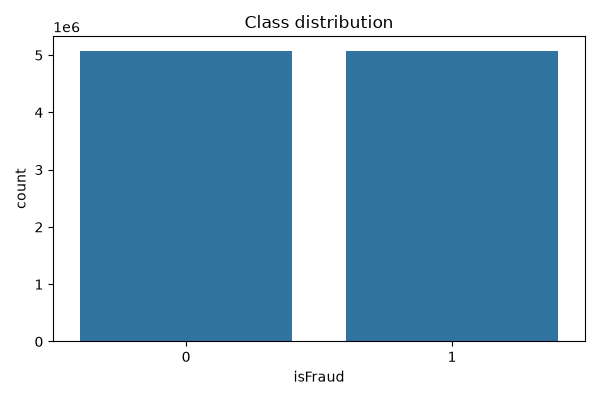
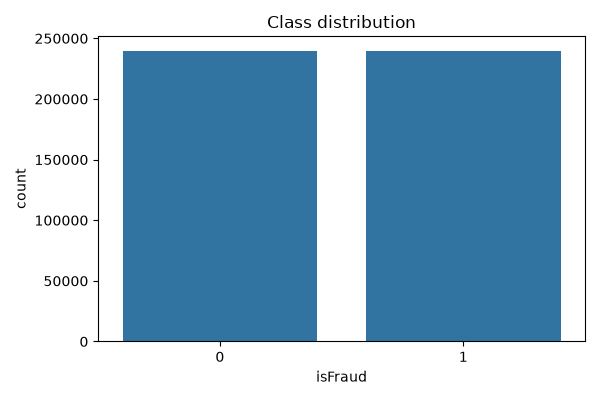
fix run

diff --git a/tools/list_artifacts.py b/tools/list_artifacts.py
@@ -1,0 +1,23 @@
+from pathlib import Path
+
+for label, path in [
+    ('Week 1 outputs', 'Week_1_EDA_Feature_Engineering/outputs'),
+    ('Week 1 charts', 'Week_1_EDA_Feature_Engineering/charts'),
+    ('Week 2 models', 'Week_2_Fraud_Detection/models'),
+    ('Week 2 charts', 'Week_2_Fraud_Detection/charts'),
+    ('Week 2 outputs', 'Week_2_Fraud_Detection/outputs'),
+    ('Week 3 models', 'Week_3_Customer_Segmentation/models'),
+    ('Week 3 charts', 'Week_3_Customer_Segmentation/charts'),
+    ('Week 3 outputs', 'Week_3_Customer_Segmentation/outputs'),
+]:
+    p = Path(path)
+    print('---', label)
+    if not p.exists():
+        print('  (none)')
+        continue
+    files = sorted([f for f in p.iterdir() if f.is_file()])
+    if not files:
+        print('  (none)')
+        continue
+    for f in files:
+        print(f'  {f.name} - {f.stat().st_size/1024:.2f} KB')